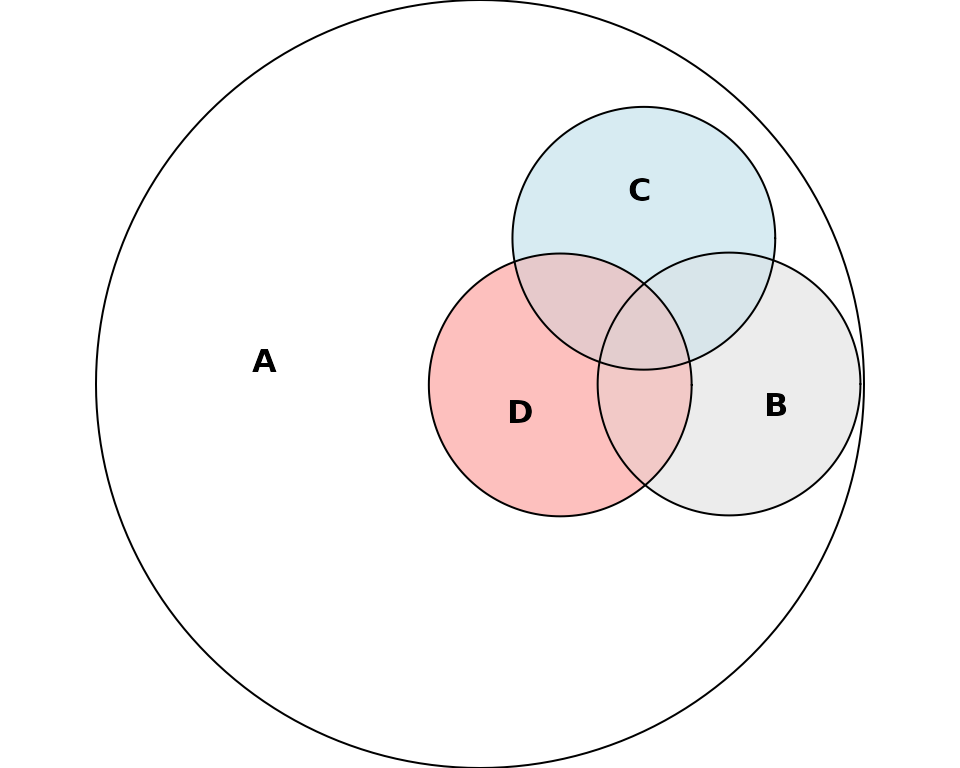
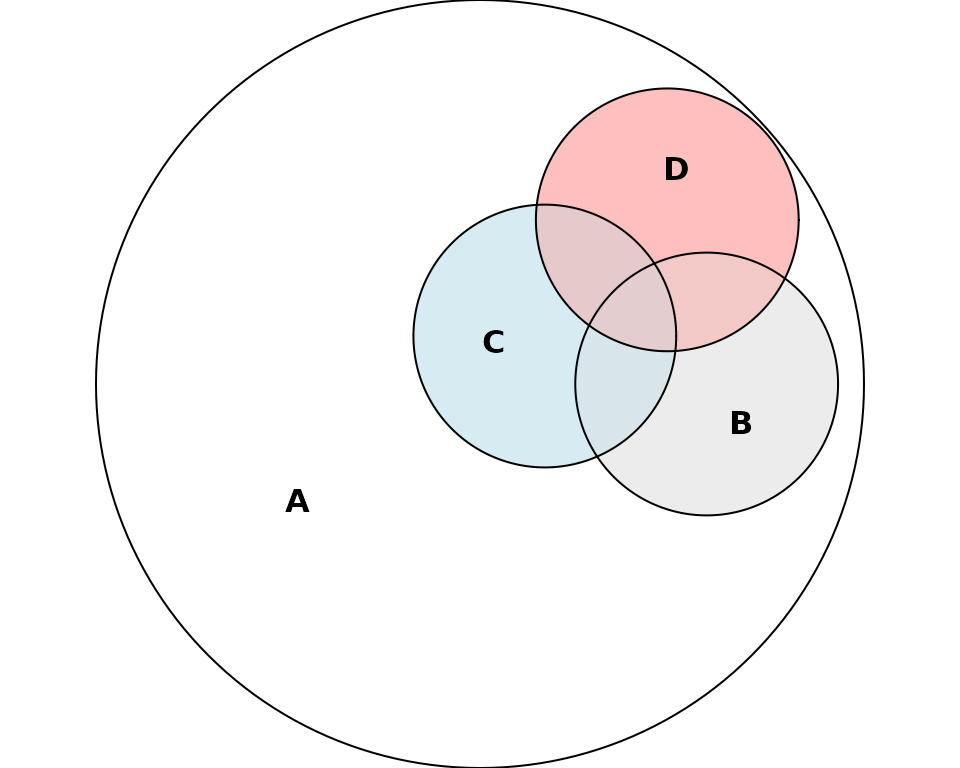
Deploying to gh-pages from @ jolars/eulerr@9b0507423c6088c1432390b9b44f448d52351a88 🚀

diff --git a/dev/news/index.html b/dev/news/index.html
@@ -130,7 +130,7 @@
 </ul></div>
 </div>
     <div class="section level2">
-<h2 class="pkg-version" data-toc-text="7.0.4" id="eulerr-704">eulerr 7.0.4<a class="anchor" aria-label="anchor" href="#eulerr-704"></a></h2><p class="text-muted">CRAN release: 2025-09-24</p>
+<h2 class="pkg-version" data-toc-text="7.0.4" id="eulerr-704">eulerr 7.0.4<a class="anchor" aria-label="anchor" href="#eulerr-704"></a></h2>
 <div class="section level3">
 <h3 id="bug-fixes-7-0-4">Bug Fixes<a class="anchor" aria-label="anchor" href="#bug-fixes-7-0-4"></a></h3>
 <ul><li>Ignore <code>air.toml</code> in <code>Rbuildignore</code> to fix R CMD check warning.</li>
@@ -146,14 +146,14 @@
 </ul></div>
 </div>
     <div class="section level2">
-<h2 class="pkg-version" data-toc-text="7.0.2" id="eulerr-702">eulerr 7.0.2<a class="anchor" aria-label="anchor" href="#eulerr-702"></a></h2><p class="text-muted">CRAN release: 2024-03-28</p>
+<h2 class="pkg-version" data-toc-text="7.0.2" id="eulerr-702">eulerr 7.0.2<a class="anchor" aria-label="anchor" href="#eulerr-702"></a></h2>
 <div class="section level3">
 <h3 id="bug-fixes-7-0-2">Bug Fixes<a class="anchor" aria-label="anchor" href="#bug-fixes-7-0-2"></a></h3>
 <ul><li>Fix order and layout of strips when grouping (<a href="https://github.com/jolars/eulerr/issues/108" class="external-link">#108</a>, by <a href="https://github.com/altairwei" class="external-link">@altairwei</a>)</li>
 </ul></div>
 </div>
     <div class="section level2">
-<h2 class="pkg-version" data-toc-text="7.0.1" id="eulerr-701">eulerr 7.0.1<a class="anchor" aria-label="anchor" href="#eulerr-701"></a></h2><p class="text-muted">CRAN release: 2024-02-16</p>
+<h2 class="pkg-version" data-toc-text="7.0.1" id="eulerr-701">eulerr 7.0.1<a class="anchor" aria-label="anchor" href="#eulerr-701"></a></h2>
 <div class="section level3">
 <h3 id="minor-changes-7-0-1">Minor Changes<a class="anchor" aria-label="anchor" href="#minor-changes-7-0-1"></a></h3>
 <ul><li>Fixed some incorrect documentation of internal functions.</li>
@@ -161,7 +161,7 @@
 </ul></div>
 </div>
     <div class="section level2">
-<h2 class="pkg-version" data-toc-text="7.0.0" id="eulerr-700">eulerr 7.0.0<a class="anchor" aria-label="anchor" href="#eulerr-700"></a></h2><p class="text-muted">CRAN release: 2022-12-09</p>
+<h2 class="pkg-version" data-toc-text="7.0.0" id="eulerr-700">eulerr 7.0.0<a class="anchor" aria-label="anchor" href="#eulerr-700"></a></h2>
 <div class="section level3">
 <h3 id="new-features-7-0-0">New Features<a class="anchor" aria-label="anchor" href="#new-features-7-0-0"></a></h3>
 <ul><li>It is now possible to set the loss function to be used when trying to optimize the Euler diagram layout via <code>loss</code> and <code>loss_aggregator</code>. There is a new vignette that showcases this new feature.</li>
@@ -176,7 +176,7 @@
 </ul></div>
 </div>
     <div class="section level2">
-<h2 class="pkg-version" data-toc-text="6.1.1" id="eulerr-611">eulerr 6.1.1<a class="anchor" aria-label="anchor" href="#eulerr-611"></a></h2><p class="text-muted">CRAN release: 2021-09-06</p>
+<h2 class="pkg-version" data-toc-text="6.1.1" id="eulerr-611">eulerr 6.1.1<a class="anchor" aria-label="anchor" href="#eulerr-611"></a></h2>
 <div class="section level3">
 <h3 id="minor-changes-6-1-1">Minor changes<a class="anchor" aria-label="anchor" href="#minor-changes-6-1-1"></a></h3>
 <ul><li>citation to conference paper added to <code>inst/CITATION</code>
@@ -192,7 +192,7 @@
 </ul></div>
 </div>
     <div class="section level2">
-<h2 class="pkg-version" data-toc-text="6.1.0" id="eulerr-610">eulerr 6.1.0<a class="anchor" aria-label="anchor" href="#eulerr-610"></a></h2><p class="text-muted">CRAN release: 2020-03-09</p>
+<h2 class="pkg-version" data-toc-text="6.1.0" id="eulerr-610">eulerr 6.1.0<a class="anchor" aria-label="anchor" href="#eulerr-610"></a></h2>
 <div class="section level3">
 <h3 id="minor-changes-6-1-0">Minor changes<a class="anchor" aria-label="anchor" href="#minor-changes-6-1-0"></a></h3>
 <ul><li>Label repelling (activated by calling <code><a href="../reference/euler.html">euler()</a></code> with <code>adjust_labels = TRUE</code>) no longer repels text labels away from the edges of the shapes in the diagram.</li>
@@ -203,7 +203,7 @@
 </ul></div>
 </div>
     <div class="section level2">
-<h2 class="pkg-version" data-toc-text="6.0.2" id="eulerr-602">eulerr 6.0.2<a class="anchor" aria-label="anchor" href="#eulerr-602"></a></h2><p class="text-muted">CRAN release: 2020-03-04</p>
+<h2 class="pkg-version" data-toc-text="6.0.2" id="eulerr-602">eulerr 6.0.2<a class="anchor" aria-label="anchor" href="#eulerr-602"></a></h2>
 <div class="section level3">
 <h3 id="bug-fixes-6-0-2">Bug fixes<a class="anchor" aria-label="anchor" href="#bug-fixes-6-0-2"></a></h3>
 <ul><li>Set <code>stringsAsFactors = TRUE</code> inside all relevant functions in <code><a href="../reference/euler.html">euler()</a></code> to avoid errors in upcoming R version.</li>
@@ -223,7 +223,7 @@
 </ul></div>
 </div>
     <div class="section level2">
-<h2 class="pkg-version" data-toc-text="6.0.0" id="eulerr-600">eulerr 6.0.0<a class="anchor" aria-label="anchor" href="#eulerr-600"></a></h2><p class="text-muted">CRAN release: 2019-09-27</p>
+<h2 class="pkg-version" data-toc-text="6.0.0" id="eulerr-600">eulerr 6.0.0<a class="anchor" aria-label="anchor" href="#eulerr-600"></a></h2>
 <div class="section level3">
 <h3 id="new-features-6-0-0">New features<a class="anchor" aria-label="anchor" href="#new-features-6-0-0"></a></h3>
 <ul><li>In <code><a href="../reference/plot.euler.html">plot.euler()</a></code>, percentages can be added to the plot in addition to or instead of counts by providing a <code>list</code> to the <code>quantities</code> argument with an item <code>type</code> that can take any combination of <code>counts</code> and <code>percent</code>. This change also comes with a redesign of the grid graphics implementation for labels.</li>
@@ -268,7 +268,7 @@
 </ul></div>
 </div>
     <div class="section level2">
-<h2 class="pkg-version" data-toc-text="5.0.0" id="eulerr-500">eulerr 5.0.0<a class="anchor" aria-label="anchor" href="#eulerr-500"></a></h2><p class="text-muted">CRAN release: 2018-11-05</p>
+<h2 class="pkg-version" data-toc-text="5.0.0" id="eulerr-500">eulerr 5.0.0<a class="anchor" aria-label="anchor" href="#eulerr-500"></a></h2>
 <div class="section level3">
 <h3 id="new-features-5-0-0">New features<a class="anchor" aria-label="anchor" href="#new-features-5-0-0"></a></h3>
 <ul><li>
@@ -309,7 +309,7 @@
 </ul></div>
 </div>
     <div class="section level2">
-<h2 class="pkg-version" data-toc-text="4.1.0" id="eulerr-410">eulerr 4.1.0<a class="anchor" aria-label="anchor" href="#eulerr-410"></a></h2><p class="text-muted">CRAN release: 2018-04-20</p>
+<h2 class="pkg-version" data-toc-text="4.1.0" id="eulerr-410">eulerr 4.1.0<a class="anchor" aria-label="anchor" href="#eulerr-410"></a></h2>
 <div class="section level3">
 <h3 id="minor-changes-4-1-0">Minor changes<a class="anchor" aria-label="anchor" href="#minor-changes-4-1-0"></a></h3>
 <ul><li>
@@ -325,7 +325,7 @@
 </ul></div>
 </div>
     <div class="section level2">
-<h2 class="pkg-version" data-toc-text="4.0.0" id="eulerr-400">eulerr 4.0.0<a class="anchor" aria-label="anchor" href="#eulerr-400"></a></h2><p class="text-muted">CRAN release: 2018-02-05</p>
+<h2 class="pkg-version" data-toc-text="4.0.0" id="eulerr-400">eulerr 4.0.0<a class="anchor" aria-label="anchor" href="#eulerr-400"></a></h2>
 <div class="section level3">
 <h3 id="major-changes-4-0-0">Major changes<a class="anchor" aria-label="anchor" href="#major-changes-4-0-0"></a></h3>
 <ul><li>
@@ -346,7 +346,7 @@
 </ul></div>
 </div>
     <div class="section level2">
-<h2 class="pkg-version" data-toc-text="3.1.0" id="eulerr-310">eulerr 3.1.0<a class="anchor" aria-label="anchor" href="#eulerr-310"></a></h2><p class="text-muted">CRAN release: 2018-01-02</p>
+<h2 class="pkg-version" data-toc-text="3.1.0" id="eulerr-310">eulerr 3.1.0<a class="anchor" aria-label="anchor" href="#eulerr-310"></a></h2>
 <div class="section level3">
 <h3 id="major-changes-3-1-0">Major changes<a class="anchor" aria-label="anchor" href="#major-changes-3-1-0"></a></h3>
 <ul><li>The last-ditch optimizer switched from <code>GenSA::GenSA()</code> to <code>RcppDE::DEoptim()</code>.</li>
@@ -367,14 +367,14 @@
 </ul></div>
 </div>
     <div class="section level2">
-<h2 class="pkg-version" data-toc-text="3.0.1" id="eulerr-301">eulerr 3.0.1<a class="anchor" aria-label="anchor" href="#eulerr-301"></a></h2><p class="text-muted">CRAN release: 2017-11-15</p>
+<h2 class="pkg-version" data-toc-text="3.0.1" id="eulerr-301">eulerr 3.0.1<a class="anchor" aria-label="anchor" href="#eulerr-301"></a></h2>
 <div class="section level3">
 <h3 id="bug-fixes-3-0-1">Bug fixes<a class="anchor" aria-label="anchor" href="#bug-fixes-3-0-1"></a></h3>
 <ul><li>Added the missing <code>%\VignetteEngine{knitr::knitr}</code> to both vignettes. It had mistakenly been left out, which had mangled the resulting vignettes.</li>
 </ul></div>
 </div>
     <div class="section level2">
-<h2 class="pkg-version" data-toc-text="3.0.0" id="eulerr-300">eulerr 3.0.0<a class="anchor" aria-label="anchor" href="#eulerr-300"></a></h2><p class="text-muted">CRAN release: 2017-11-15</p>
+<h2 class="pkg-version" data-toc-text="3.0.0" id="eulerr-300">eulerr 3.0.0<a class="anchor" aria-label="anchor" href="#eulerr-300"></a></h2>
 <div class="section level3">
 <h3 id="major-changes-3-0-0">Major changes<a class="anchor" aria-label="anchor" href="#major-changes-3-0-0"></a></h3>
 <ul><li>Ellipses are now supported by setting the new argument <code>shape = "ellipse"</code> in <code><a href="../reference/euler.html">euler()</a></code>. This functionality accompanies an overhaul of the innards of the function.</li>
@@ -397,7 +397,7 @@
 </ul></div>
 </div>
     <div class="section level2">
-<h2 class="pkg-version" data-toc-text="2.0.0" id="eulerr-200">eulerr 2.0.0<a class="anchor" aria-label="anchor" href="#eulerr-200"></a></h2><p class="text-muted">CRAN release: 2017-06-20</p>
+<h2 class="pkg-version" data-toc-text="2.0.0" id="eulerr-200">eulerr 2.0.0<a class="anchor" aria-label="anchor" href="#eulerr-200"></a></h2>
 <div class="section level3">
 <h3 id="major-changes-2-0-0">Major changes<a class="anchor" aria-label="anchor" href="#major-changes-2-0-0"></a></h3>
 <ul><li>
@@ -430,7 +430,7 @@
 </ul></div>
 </div>
     <div class="section level2">
-<h2 class="pkg-version" data-toc-text="1.1.0" id="eulerr-110">eulerr 1.1.0<a class="anchor" aria-label="anchor" href="#eulerr-110"></a></h2><p class="text-muted">CRAN release: 2017-02-05</p>
+<h2 class="pkg-version" data-toc-text="1.1.0" id="eulerr-110">eulerr 1.1.0<a class="anchor" aria-label="anchor" href="#eulerr-110"></a></h2>
 <div class="section level3">
 <h3 id="major-changes-1-1-0">Major changes<a class="anchor" aria-label="anchor" href="#major-changes-1-1-0"></a></h3>
 <ul><li>
@@ -457,7 +457,7 @@
 </ul></div>
 </div>
     <div class="section level2">
-<h2 class="pkg-version" data-toc-text="1.0.0" id="eulerr-100">eulerr 1.0.0<a class="anchor" aria-label="anchor" href="#eulerr-100"></a></h2><p class="text-muted">CRAN release: 2016-12-10</p>
+<h2 class="pkg-version" data-toc-text="1.0.0" id="eulerr-100">eulerr 1.0.0<a class="anchor" aria-label="anchor" href="#eulerr-100"></a></h2>
 <div class="section level3">
 <h3 id="new-features-1-0-0">New features<a class="anchor" aria-label="anchor" href="#new-features-1-0-0"></a></h3>
 <ul><li>Final optimization routines have been completely rewritten in C++ using Rcpp and RcppArmadillo.</li>
@@ -477,7 +477,7 @@
 </ul></div>
 </div>
     <div class="section level2">
-<h2 class="pkg-version" data-toc-text="0.1.0" id="eulerr-010">eulerr 0.1.0<a class="anchor" aria-label="anchor" href="#eulerr-010"></a></h2><p class="text-muted">CRAN release: 2016-10-16</p>
+<h2 class="pkg-version" data-toc-text="0.1.0" id="eulerr-010">eulerr 0.1.0<a class="anchor" aria-label="anchor" href="#eulerr-010"></a></h2>
 <ul><li>The first release.</li>
 </ul></div>
   </main><aside class="col-md-3"><nav id="toc" aria-label="Table of contents"><h2>On this page</h2>

diff --git a/dev/articles/introduction.html b/dev/articles/introduction.html
@@ -70,7 +70,7 @@
                         <h4 data-toc-skip class="author">Johan
 Larsson</h4>
             
-            <h4 data-toc-skip class="date">2026-05-29</h4>
+            <h4 data-toc-skip class="date">2026-05-30</h4>
       
       <small class="dont-index">Source: <a href="https://github.com/jolars/eulerr/blob/main/vignettes/introduction.Rmd" class="external-link"><code>vignettes/introduction.Rmd</code></a></small>
       <div class="d-none name"><code>introduction.Rmd</code></div>

diff --git a/dev/articles/under-the-hood.html b/dev/articles/under-the-hood.html
@@ -70,7 +70,7 @@
                         <h4 data-toc-skip class="author">Johan
 Larsson</h4>
             
-            <h4 data-toc-skip class="date">2026-05-29</h4>
+            <h4 data-toc-skip class="date">2026-05-30</h4>
       
       <small class="dont-index">Source: <a href="https://github.com/jolars/eulerr/blob/main/vignettes/under-the-hood.Rmd" class="external-link"><code>vignettes/under-the-hood.Rmd</code></a></small>
       <div class="d-none name"><code>under-the-hood.Rmd</code></div>

diff --git a/dev/articles/venn-diagrams.html b/dev/articles/venn-diagrams.html
@@ -70,7 +70,7 @@
                         <h4 data-toc-skip class="author">Johan
 Larsson</h4>
             
-            <h4 data-toc-skip class="date">2026-05-29</h4>
+            <h4 data-toc-skip class="date">2026-05-30</h4>
       
       <small class="dont-index">Source: <a href="https://github.com/jolars/eulerr/blob/main/vignettes/venn-diagrams.Rmd" class="external-link"><code>vignettes/venn-diagrams.Rmd</code></a></small>
       <div class="d-none name"><code>venn-diagrams.Rmd</code></div>

diff --git a/dev/articles/visualization.html b/dev/articles/visualization.html
@@ -70,7 +70,7 @@
                         <h4 data-toc-skip class="author">Johan
 Larsson</h4>
             
-            <h4 data-toc-skip class="date">2026-05-29</h4>
+            <h4 data-toc-skip class="date">2026-05-30</h4>
       
       <small class="dont-index">Source: <a href="https://github.com/jolars/eulerr/blob/main/vignettes/visualization.Rmd" class="external-link"><code>vignettes/visualization.Rmd</code></a></small>
       <div class="d-none name"><code>visualization.Rmd</code></div>

diff --git a/dev/news/index.md b/dev/news/index.md
@@ -148,8 +148,6 @@ developed. Here are some of the highlights this brings:
 
 ## eulerr 7.0.4
 
-CRAN release: 2025-09-24
-
 ### Bug Fixes
 
 - Ignore `air.toml` in `Rbuildignore` to fix R CMD check warning.
@@ -164,8 +162,6 @@ CRAN release: 2025-09-24
 
 ## eulerr 7.0.2
 
-CRAN release: 2024-03-28
-
 ### Bug Fixes
 
 - Fix order and layout of strips when grouping
@@ -174,16 +170,12 @@ CRAN release: 2024-03-28
 
 ## eulerr 7.0.1
 
-CRAN release: 2024-02-16
-
 ### Minor Changes
 
 - Fixed some incorrect documentation of internal functions.
 - Corrected an url for eulerAPE.
 
 ## eulerr 7.0.0
-
-CRAN release: 2022-12-09
 
 ### New Features
 
@@ -203,8 +195,6 @@ CRAN release: 2022-12-09
 
 ## eulerr 6.1.1
 
-CRAN release: 2021-09-06
-
 ### Minor changes
 
 - citation to conference paper added to `inst/CITATION`
@@ -221,8 +211,6 @@ CRAN release: 2021-09-06
 
 ## eulerr 6.1.0
 
-CRAN release: 2020-03-09
-
 ### Minor changes
 
 - Label repelling (activated by calling
@@ -235,8 +223,6 @@ CRAN release: 2020-03-09
 - Rectify sanitizer error from clang-ASAN test environment.
 
 ## eulerr 6.0.2
-
-CRAN release: 2020-03-04
 
 ### Bug fixes
 
@@ -264,8 +250,6 @@ CRAN release: 2020-03-04
   when categorical variables are character vectors and not factors.
 
 ## eulerr 6.0.0
-
-CRAN release: 2019-09-27
 
 ### New features
 
@@ -340,8 +324,6 @@ CRAN release: 2019-09-27
 
 ## eulerr 5.0.0
 
-CRAN release: 2018-11-05
-
 ### New features
 
 - [`error_plot()`](https://jolars.github.io/eulerr/dev/reference/error_plot.md)
@@ -409,8 +391,6 @@ CRAN release: 2018-11-05
 
 ## eulerr 4.1.0
 
-CRAN release: 2018-04-20
-
 ### Minor changes
 
 - [`plot.euler()`](https://jolars.github.io/eulerr/dev/reference/plot.euler.md)
@@ -442,8 +422,6 @@ CRAN release: 2018-04-20
   argument `by` is used.
 
 ## eulerr 4.0.0
-
-CRAN release: 2018-02-05
 
 ### Major changes
 
@@ -489,8 +467,6 @@ CRAN release: 2018-02-05
 
 ## eulerr 3.1.0
 
-CRAN release: 2018-01-02
-
 ### Major changes
 
 - The last-ditch optimizer switched from `GenSA::GenSA()` to
@@ -518,8 +494,6 @@ CRAN release: 2018-01-02
 
 ## eulerr 3.0.1
 
-CRAN release: 2017-11-15
-
 ### Bug fixes
 
 - Added the missing `%\VignetteEngine{knitr::knitr}` to both vignettes.
@@ -527,8 +501,6 @@ CRAN release: 2017-11-15
   vignettes.
 
 ## eulerr 3.0.0
-
-CRAN release: 2017-11-15
 
 ### Major changes
 
@@ -578,8 +550,6 @@ CRAN release: 2017-11-15
   been made defunct.
 
 ## eulerr 2.0.0
-
-CRAN release: 2017-06-20
 
 ### Major changes
 
@@ -632,8 +602,6 @@ CRAN release: 2017-06-20
 
 ## eulerr 1.1.0
 
-CRAN release: 2017-02-05
-
 ### Major changes
 
 - [`eulerr()`](https://jolars.github.io/eulerr/dev/reference/eulerr-package.md)
@@ -679,8 +647,6 @@ CRAN release: 2017-02-05
 
 ## eulerr 1.0.0
 
-CRAN release: 2016-12-10
-
 ### New features
 
 - Final optimization routines have been completely rewritten in C++
@@ -708,7 +674,5 @@ CRAN release: 2016-12-10
 - Updated vignette to cover new features and changes.
 
 ## eulerr 0.1.0
-
-CRAN release: 2016-10-16
 
 - The first release.